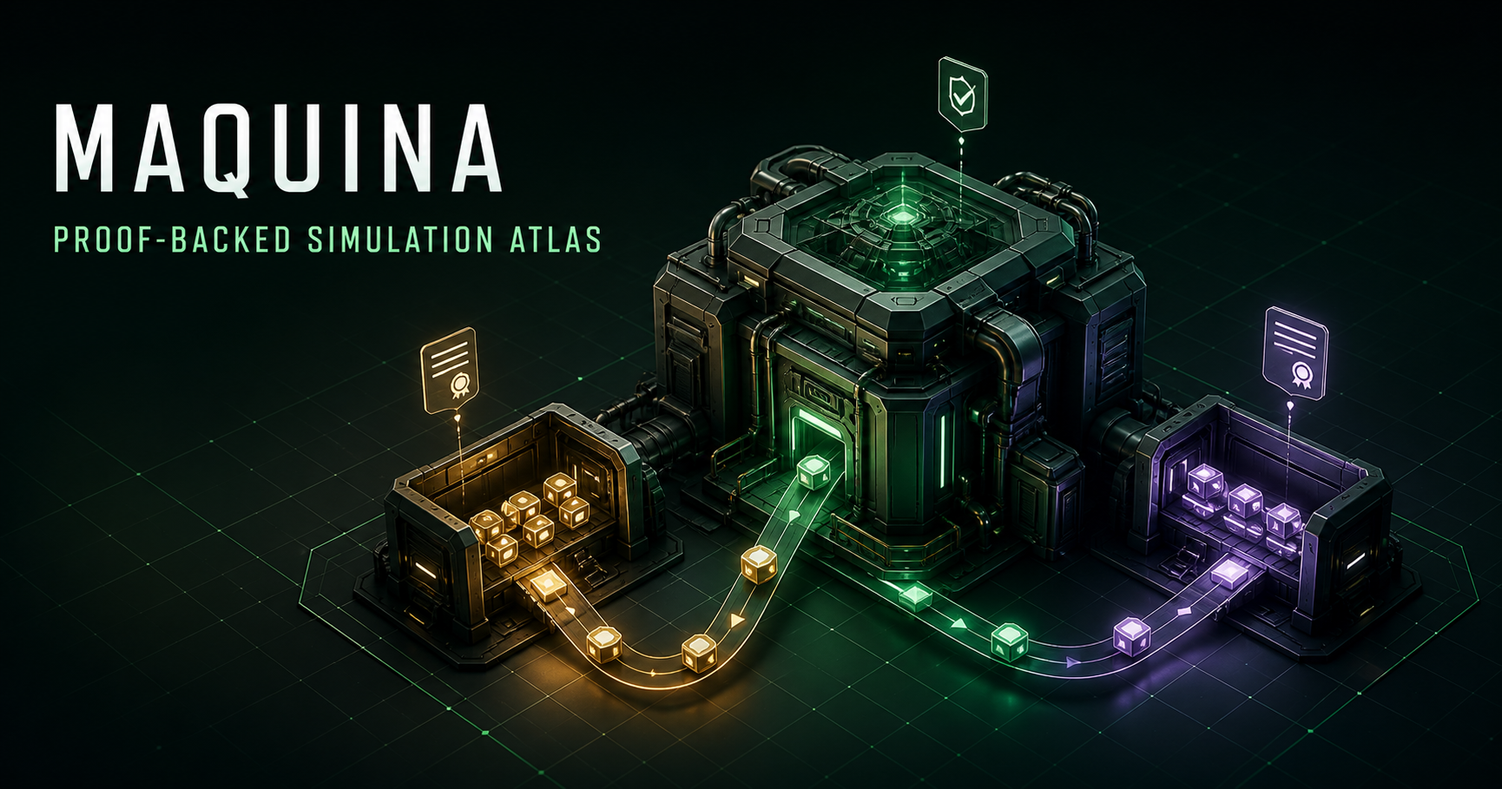
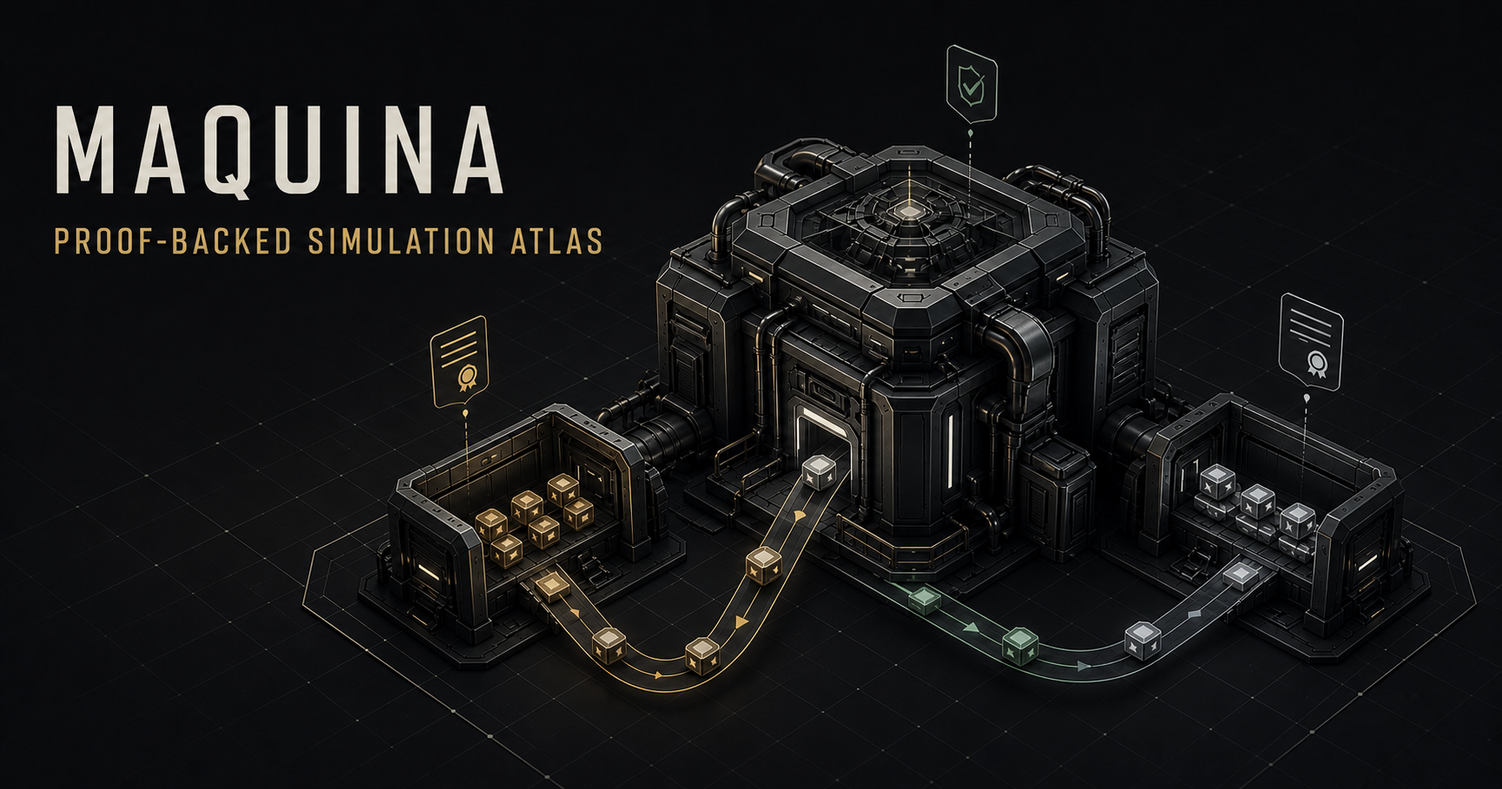
Adopt Axionomy ledger theme

diff --git a/visualizer/src/style.css b/visualizer/src/style.css
@@ -1,14 +1,31 @@
+/* Axionomy-compatible Ledger theme: ink surfaces, bone chrome, brass for
+   value, steel for structure, and restrained semantic status colors. */
 :root {
-  color: #e7f1ec;
-  background: #07110f;
+  color-scheme: dark;
+  color: var(--text);
+  background: var(--bg);
   font-family: Inter, ui-sans-serif, system-ui, -apple-system, BlinkMacSystemFont, "Segoe UI", sans-serif;
   font-synthesis: none;
   text-rendering: optimizeLegibility;
-  --accent: #f4b860;
-  --world-background: #07110f;
-  --line: rgba(188, 224, 208, 0.13);
-  --muted: #86a298;
-  --panel: rgba(13, 29, 24, 0.92);
+  --bg: #101012;
+  --surface: #161618;
+  --surface-2: #1b1b1e;
+  --surface-3: #202023;
+  --line: #2b2a2d;
+  --line-strong: #3e3c38;
+  --muted: #918c82;
+  --text: #eae6dc;
+  --accent: #e8e3d8;
+  --accent-contrast: #131315;
+  --brass: #c2a15c;
+  --credit: #74a184;
+  --debit: #b5584f;
+  --hold: #bd8443;
+  --steel: #7e8a95;
+  --world-background: #101012;
+  --panel: #161618;
+  --serif: "Iowan Old Style", "Palatino Linotype", Palatino, Georgia, ui-serif, serif;
+  --mono: "SFMono-Regular", Consolas, "Liberation Mono", ui-monospace, monospace;
 }
 
 * { box-sizing: border-box; }
@@ -17,12 +34,14 @@ html, body, #app { margin: 0; min-width: 320px; min-height: 100%; height: 100%; 
 
 body {
   background:
-    radial-gradient(circle at 50% -20%, rgba(91, 194, 158, 0.16), transparent 42%),
-    #07110f;
+    radial-gradient(circle at 50% 38%, #1c1c20 0, transparent 58%),
+    var(--bg);
 }
 
 button, a { font: inherit; }
 button { color: inherit; }
+:where(button, a):focus-visible { outline: 2px solid var(--accent); outline-offset: 2px; }
+* { scrollbar-color: var(--line-strong) transparent; scrollbar-width: thin; }
 
 .app-shell {
   display: grid;
@@ -35,121 +54,125 @@ button { color: inherit; }
   align-items: center;
   gap: 22px;
   padding: 0 22px;
-  border-bottom: 1px solid var(--line);
-  background: rgba(5, 14, 11, 0.92);
-  backdrop-filter: blur(18px);
+  border-bottom: 3px double var(--line-strong);
+  background: var(--bg);
   z-index: 10;
 }
 
 .brand { display: flex; align-items: center; gap: 12px; color: inherit; text-decoration: none; }
-.brand > span:last-child { display: flex; flex-direction: column; gap: 1px; }
-.brand b { font-size: 13px; letter-spacing: 0.24em; }
-.brand small { color: var(--muted); font-size: 10px; letter-spacing: 0.05em; }
-.brand-mark { position: relative; display: block; width: 33px; height: 33px; border: 1px solid rgba(244, 184, 96, 0.4); border-radius: 50%; }
-.brand-mark i { position: absolute; display: block; width: 7px; height: 7px; border-radius: 50%; background: var(--accent); box-shadow: 0 0 14px rgba(244, 184, 96, 0.62); }
-.brand-mark i:nth-child(1) { left: 6px; top: 12px; }
+.brand > span:last-child { display: flex; flex-direction: column; gap: 2px; }
+.brand b { color: var(--accent); font: 500 13px var(--mono); letter-spacing: .18em; }
+.brand small { color: var(--muted); font: 8px var(--mono); letter-spacing: .08em; text-transform: uppercase; }
+.brand-mark { position: relative; display: block; width: 32px; height: 32px; border: 1px solid var(--line-strong); }
+.brand-mark::before, .brand-mark::after { content: ""; position: absolute; background: var(--line); }
+.brand-mark::before { left: 7px; right: 7px; top: 15px; height: 1px; transform: rotate(-28deg); }
+.brand-mark::after { left: 15px; top: 7px; bottom: 7px; width: 1px; transform: rotate(24deg); }
+.brand-mark i { position: absolute; z-index: 1; display: block; width: 5px; height: 5px; background: var(--accent); }
+.brand-mark i:nth-child(1) { left: 5px; top: 13px; }
 .brand-mark i:nth-child(2) { left: 18px; top: 6px; }
-.brand-mark i:nth-child(3) { left: 19px; top: 20px; }
+.brand-mark i:nth-child(3) { left: 19px; top: 21px; }
 
-.proof-chip { margin-left: auto; display: flex; align-items: center; gap: 8px; padding: 7px 11px; border: 1px solid rgba(99, 210, 171, 0.24); border-radius: 999px; color: #a8dfca; background: rgba(80, 177, 143, 0.08); font-size: 11px; letter-spacing: 0.05em; text-transform: uppercase; }
-.proof-chip span { width: 6px; height: 6px; border-radius: 50%; background: #63d2ab; box-shadow: 0 0 10px #63d2ab; }
-.source-link { color: var(--muted); text-decoration: none; font-size: 12px; }
-.source-link:hover { color: #fff; }
+.proof-chip { margin-left: auto; display: flex; align-items: center; gap: 8px; min-height: 30px; padding: 0 10px; border: 1px solid color-mix(in srgb, var(--credit) 55%, var(--line)); color: var(--credit); background: color-mix(in srgb, var(--credit) 6%, var(--surface)); font: 8px var(--mono); letter-spacing: .1em; text-transform: uppercase; }
+.proof-chip span { width: 6px; height: 6px; background: currentColor; }
+.source-link { color: var(--muted); text-decoration: none; font: 9px var(--mono); text-transform: uppercase; }
+.source-link:hover { color: var(--accent); }
 
 .workspace { display: grid; grid-template-columns: 262px minmax(0, 1fr) 328px; min-height: 0; }
-.panel { min-height: 0; background: var(--panel); backdrop-filter: blur(16px); }
+.panel { min-height: 0; background: var(--panel); }
 .catalog-panel { display: flex; flex-direction: column; border-right: 1px solid var(--line); }
 .inspector-panel { display: flex; flex-direction: column; border-left: 1px solid var(--line); }
-.panel-heading { height: 52px; flex: 0 0 auto; display: flex; align-items: center; justify-content: space-between; padding: 0 16px; border-bottom: 1px solid var(--line); }
-.panel-heading span { font-size: 11px; font-weight: 700; letter-spacing: 0.11em; text-transform: uppercase; }
-.panel-heading small { color: var(--muted); font-size: 10px; }
+.panel-heading { height: 52px; flex: 0 0 auto; display: flex; align-items: center; justify-content: space-between; padding: 0 15px; border-bottom: 1px solid var(--line); }
+.panel-heading span { color: var(--muted); font: 500 8px var(--mono); letter-spacing: .12em; text-transform: uppercase; }
+.panel-heading small { color: var(--brass); font: 9px var(--mono); text-transform: uppercase; }
 
-.catalog-list { flex: 1; overflow: auto; padding: 9px; }
-.catalog-entry { display: grid; grid-template-columns: 31px 1fr; width: 100%; padding: 13px 10px; border: 1px solid transparent; border-radius: 9px; background: transparent; text-align: left; cursor: pointer; transition: 160ms ease; }
-.catalog-entry:hover { background: rgba(255, 255, 255, 0.035); }
-.catalog-entry.is-selected { border-color: rgba(244, 184, 96, 0.27); background: linear-gradient(110deg, rgba(244, 184, 96, 0.11), rgba(244, 184, 96, 0.025)); }
-.catalog-index { color: #526e64; font: 10px ui-monospace, monospace; padding-top: 2px; }
+.catalog-list { flex: 1; overflow: auto; padding: 8px 0; }
+.catalog-entry { display: grid; grid-template-columns: 31px 1fr; width: 100%; padding: 13px 13px; border: 0; border-left: 2px solid transparent; background: transparent; color: var(--text); text-align: left; cursor: pointer; transition: 150ms ease; }
+.catalog-entry:hover { background: color-mix(in srgb, var(--accent) 3%, var(--surface)); }
+.catalog-entry.is-selected { border-left-color: var(--accent); background: color-mix(in srgb, var(--accent) 6%, var(--surface)); }
+.catalog-index { color: var(--line-strong); font: 9px var(--mono); padding-top: 2px; }
+.catalog-entry.is-selected .catalog-index { color: var(--brass); }
 .catalog-entry > span:last-child { display: flex; flex-direction: column; gap: 5px; }
-.catalog-entry small { color: var(--accent); font-size: 9px; font-weight: 700; letter-spacing: 0.16em; text-transform: uppercase; }
-.catalog-entry b { font-size: 13px; font-weight: 650; }
+.catalog-entry small { color: var(--brass); font: 500 8px var(--mono); letter-spacing: .12em; text-transform: uppercase; }
+.catalog-entry b { font: 500 12px var(--mono); }
 .catalog-entry em { color: var(--muted); font-size: 10px; font-style: normal; line-height: 1.45; }
-.catalog-note { margin: 10px; padding: 14px; border: 1px solid var(--line); border-radius: 9px; background: rgba(0, 0, 0, 0.12); }
+.catalog-note { margin: 10px; padding: 13px; border: 1px solid var(--line); background: var(--surface-2); }
 .catalog-note p { margin: 8px 0 0; color: var(--muted); font-size: 10px; line-height: 1.5; }
-.eyebrow { color: var(--accent); font-size: 9px; font-weight: 750; letter-spacing: 0.18em; text-transform: uppercase; }
+.eyebrow { color: var(--brass); font: 500 8px var(--mono); letter-spacing: .12em; text-transform: uppercase; }
 
 .world-panel { position: relative; display: grid; grid-template-rows: 76px minmax(0, 1fr); min-width: 0; min-height: 0; background: var(--world-background); }
-.world-heading { display: flex; align-items: center; justify-content: space-between; gap: 30px; padding: 0 22px; border-bottom: 1px solid var(--line); z-index: 2; background: rgba(7, 17, 15, 0.74); }
-.world-heading h1 { margin: 4px 0 0; font-family: Georgia, "Times New Roman", serif; font-size: clamp(22px, 2.1vw, 32px); font-weight: 400; letter-spacing: -0.025em; }
+.world-heading { display: flex; align-items: center; justify-content: space-between; gap: 30px; padding: 0 22px; border-bottom: 1px solid var(--line); z-index: 2; background: var(--surface); }
+.world-heading h1 { margin: 5px 0 0; font: 400 clamp(22px, 2.1vw, 32px)/1.05 var(--serif); letter-spacing: 0; }
 .world-heading p { max-width: 460px; margin: 0; color: var(--muted); font-size: 11px; line-height: 1.55; text-align: right; }
 .world { position: relative; min-height: 0; overflow: hidden; }
 .world-canvas, .world-labels { position: absolute; inset: 0; width: 100%; height: 100%; }
 .world-labels { pointer-events: auto; overflow: hidden; }
-.world-help { position: absolute; left: 16px; bottom: 14px; z-index: 3; padding: 7px 9px; border: 1px solid var(--line); border-radius: 6px; color: #7c9a8e; background: rgba(5, 14, 11, 0.7); font-size: 9px; letter-spacing: 0.05em; pointer-events: none; }
-.loading-state, .fatal-error { position: absolute; inset: 0; display: grid; place-content: center; justify-items: center; z-index: 5; background: #07110f; }
-.loading-state span { width: 30px; height: 30px; border: 2px solid rgba(255,255,255,.1); border-top-color: var(--accent); border-radius: 50%; animation: spin 1s linear infinite; }
-.loading-state p, .fatal-error p { color: var(--muted); font-size: 11px; }
+.world-help { position: absolute; left: 16px; bottom: 14px; z-index: 3; padding: 6px 8px; border: 1px solid var(--line); color: var(--muted); background: color-mix(in srgb, var(--surface) 90%, transparent); font: 8px var(--mono); letter-spacing: .05em; text-transform: uppercase; pointer-events: none; }
+.loading-state, .fatal-error { position: absolute; inset: 0; display: grid; place-content: center; justify-items: center; z-index: 5; background: var(--bg); }
+.loading-state span { width: 30px; height: 30px; border: 2px solid var(--line); border-top-color: var(--accent); border-radius: 50%; animation: spin 1s linear infinite; }
+.loading-state p, .fatal-error p { color: var(--muted); font: 9px var(--mono); text-transform: uppercase; }
 @keyframes spin { to { transform: rotate(360deg); } }
 
-.node-label { display: flex; flex-direction: column; align-items: center; min-width: 82px; padding: 5px 7px; border: 1px solid rgba(192, 224, 210, 0.13); border-radius: 5px; background: rgba(5, 14, 11, 0.78); box-shadow: 0 5px 15px rgba(0,0,0,.18); color: #e8f1ed; text-align: center; pointer-events: none; transform: translateY(-2px); }
-.node-label strong { font-size: 9px; font-weight: 680; letter-spacing: 0.02em; white-space: nowrap; }
-.node-label small { margin-top: 2px; color: #8fa79e; font-size: 8px; white-space: nowrap; }
-.node-label.is-highlighted { border-color: rgba(244, 184, 96, 0.62); box-shadow: 0 0 18px rgba(244, 184, 96, 0.18); }
+.node-label { display: flex; flex-direction: column; align-items: center; min-width: 82px; padding: 5px 7px; border: 1px solid var(--line); background: color-mix(in srgb, var(--surface) 92%, transparent); box-shadow: 0 7px 18px #0009; color: var(--text); text-align: center; pointer-events: none; transform: translateY(-2px); }
+.node-label strong { font: 500 8px var(--mono); letter-spacing: .02em; text-transform: uppercase; white-space: nowrap; }
+.node-label small { margin-top: 3px; color: var(--muted); font: 7px var(--mono); text-transform: uppercase; white-space: nowrap; }
+.node-label.is-highlighted { border-color: var(--accent); background: color-mix(in srgb, var(--accent) 5%, var(--surface)); }
 .node-resource { min-width: 56px; padding: 3px 5px; }
-.node-queue { background: rgba(10, 24, 20, 0.9); }
+.node-queue { background: color-mix(in srgb, var(--surface-2) 94%, transparent); }
 
 .inspector { flex: 1; overflow: auto; padding: 12px; }
-.receipt-card { padding: 14px; border: 1px solid var(--line); border-radius: 9px; background: rgba(5, 13, 11, 0.52); }
-.receipt-card.status-accepted { border-color: rgba(99, 210, 171, 0.25); }
-.receipt-card.status-rejected { border-color: rgba(239, 116, 99, 0.37); background: rgba(77, 24, 20, 0.18); }
-.receipt-kicker { display: flex; justify-content: space-between; color: var(--muted); font-size: 9px; text-transform: uppercase; letter-spacing: 0.12em; }
-.receipt-kicker b { color: #9edfc6; }
-.status-rejected .receipt-kicker b { color: #ff9e91; }
-.receipt-card h2 { margin: 10px 0 8px; font-family: Georgia, "Times New Roman", serif; font-size: 22px; font-weight: 400; }
-.semantic-proof { display: inline-flex; margin-bottom: 11px; padding: 4px 7px; border-radius: 4px; background: rgba(99, 210, 171, 0.08); color: #8ed2b8; font: 9px ui-monospace, monospace; }
-.status-rejected .semantic-proof { background: rgba(239, 116, 99, 0.08); color: #ef8d80; }
-.effect-row { display: grid; grid-template-columns: 7px 1fr; gap: 8px; align-items: start; padding: 7px 0; border-top: 1px solid rgba(188, 224, 208, 0.07); color: #bad0c7; font-size: 10px; line-height: 1.45; }
-.effect-row i { width: 5px; height: 5px; margin-top: 5px; border-radius: 50%; background: var(--accent); box-shadow: 0 0 7px rgba(244,184,96,.55); }
-.issue { margin: 6px 0 9px; padding: 9px; border-left: 2px solid #ef7463; background: rgba(239, 116, 99, 0.06); }
+.receipt-card { padding: 14px; border: 1px solid var(--line); background: var(--surface-2); }
+.receipt-card.status-accepted { border-color: color-mix(in srgb, var(--credit) 55%, var(--line)); }
+.receipt-card.status-rejected { border-color: color-mix(in srgb, var(--debit) 65%, var(--line)); background: color-mix(in srgb, var(--debit) 7%, var(--surface-2)); }
+.receipt-kicker { display: flex; justify-content: space-between; color: var(--muted); font: 8px var(--mono); text-transform: uppercase; letter-spacing: .1em; }
+.receipt-kicker b { color: var(--credit); font-weight: 500; }
+.status-rejected .receipt-kicker b { color: var(--debit); }
+.receipt-card h2 { margin: 10px 0 8px; font: 400 22px var(--serif); }
+.semantic-proof { display: inline-flex; margin-bottom: 11px; padding: 4px 7px; border: 1px solid color-mix(in srgb, var(--credit) 30%, var(--line)); background: color-mix(in srgb, var(--credit) 5%, var(--surface)); color: var(--credit); font: 8px var(--mono); }
+.status-rejected .semantic-proof { border-color: color-mix(in srgb, var(--debit) 30%, var(--line)); background: color-mix(in srgb, var(--debit) 5%, var(--surface)); color: var(--debit); }
+.effect-row { display: grid; grid-template-columns: 7px 1fr; gap: 8px; align-items: start; padding: 7px 0; border-top: 1px solid var(--line); color: var(--text); font-size: 10px; line-height: 1.45; }
+.effect-row i { width: 5px; height: 5px; margin-top: 5px; background: var(--brass); }
+.issue { margin: 6px 0 9px; padding: 9px; border-left: 2px solid var(--debit); background: color-mix(in srgb, var(--debit) 6%, var(--surface)); }
 .issue b, .issue small { display: block; }
-.issue b { color: #ff9e91; font-size: 10px; text-transform: capitalize; }
-.issue small { margin-top: 5px; color: #a9837d; font: 8px/1.4 ui-monospace, monospace; overflow-wrap: anywhere; }
+.issue b { color: var(--debit); font: 500 9px var(--mono); text-transform: uppercase; }
+.issue small { margin-top: 5px; color: var(--muted); font: 8px/1.4 var(--mono); overflow-wrap: anywhere; }
 .empty-copy { margin: 6px 0; color: var(--muted); font-size: 10px; line-height: 1.5; }
-.selected-object { display: flex; justify-content: space-between; gap: 12px; margin: 10px 0; padding: 9px 10px; border: 1px solid rgba(244,184,96,.18); border-radius: 6px; background: rgba(244,184,96,.05); font-size: 9px; }
-.selected-object span { color: var(--muted); }
-.selected-object b { overflow: hidden; color: var(--accent); text-overflow: ellipsis; }
+.selected-object { display: flex; justify-content: space-between; gap: 12px; margin: 10px 0; padding: 9px 10px; border: 1px solid var(--line-strong); background: var(--surface-2); font: 8px var(--mono); }
+.selected-object span { color: var(--muted); text-transform: uppercase; }
+.selected-object b { overflow: hidden; color: var(--brass); text-overflow: ellipsis; }
 .data-section { margin-top: 17px; }
-.section-title { display: flex; justify-content: space-between; margin-bottom: 7px; color: #8ea79d; font-size: 9px; font-weight: 700; letter-spacing: .1em; text-transform: uppercase; }
-.section-title b { color: #617b71; }
-.holding-row { display: grid; grid-template-columns: 8px minmax(0, 1fr) auto; gap: 9px; align-items: center; padding: 7px 4px; border-bottom: 1px solid rgba(188,224,208,.07); }
-.holding-row > i { width: 7px; height: 7px; border-radius: 2px; background: var(--resource); box-shadow: 0 0 8px color-mix(in srgb, var(--resource), transparent 45%); }
+.section-title { display: flex; justify-content: space-between; margin-bottom: 7px; color: var(--muted); font: 500 8px var(--mono); letter-spacing: .1em; text-transform: uppercase; }
+.section-title b { color: var(--brass); font-weight: 500; }
+.holding-row { display: grid; grid-template-columns: 8px minmax(0, 1fr) auto; gap: 9px; align-items: center; padding: 7px 4px; border-bottom: 1px solid var(--line); }
+.holding-row > i { width: 7px; height: 7px; background: var(--resource); }
 .holding-row span { display: flex; flex-direction: column; gap: 2px; min-width: 0; }
-.holding-row b { font-size: 10px; font-weight: 600; }
+.holding-row b { font: 500 9px var(--mono); text-transform: uppercase; }
 .holding-row small { overflow: hidden; color: var(--muted); font-size: 8px; text-overflow: ellipsis; white-space: nowrap; }
-.holding-row strong { font: 10px ui-monospace, monospace; }
-.queue-row { display: grid; grid-template-columns: minmax(0, 1fr) auto; gap: 4px 8px; padding: 7px 4px; border-bottom: 1px solid rgba(188,224,208,.07); }
-.queue-row span { font-size: 9px; text-transform: uppercase; letter-spacing: .08em; }
-.queue-row b { font: 9px ui-monospace, monospace; }
+.holding-row strong { color: var(--brass); font: 10px var(--mono); }
+.queue-row { display: grid; grid-template-columns: minmax(0, 1fr) auto; gap: 4px 8px; padding: 7px 4px; border-bottom: 1px solid var(--line); }
+.queue-row span { font: 500 8px var(--mono); text-transform: uppercase; letter-spacing: .08em; }
+.queue-row b { color: var(--brass); font: 9px var(--mono); }
 .queue-row small { grid-column: 1/-1; color: var(--muted); font-size: 8px; }
-.stage-input { color: #e6a15a; }.stage-processing { color: #62cbb0; }.stage-output { color: #c081e8; }
+.stage-input { color: var(--hold); }.stage-processing { color: var(--steel); }.stage-output { color: var(--credit); }
 
-.timeline-panel { display: grid; grid-template-columns: 126px minmax(0, 1fr); align-items: center; gap: 12px; padding: 0 20px; border-top: 1px solid var(--line); background: rgba(5, 14, 11, 0.96); z-index: 10; }
-.transport { display: flex; align-items: center; gap: 7px; }
-.transport button { display: grid; place-items: center; border: 1px solid var(--line); background: rgba(255,255,255,.025); cursor: pointer; }
+.timeline-panel { display: grid; grid-template-columns: 126px minmax(0, 1fr); align-items: center; gap: 12px; padding: 0 20px; border-top: 3px double var(--line-strong); background: var(--bg); z-index: 10; }
+.transport { display: flex; align-items: center; gap: 5px; }
+.transport button { display: grid; place-items: center; border: 1px solid var(--line); background: var(--surface-2); cursor: pointer; }
+.transport button:hover:not(:disabled) { border-color: var(--line-strong); }
 .transport button:disabled { opacity: .25; cursor: default; }
-.transport-button { width: 31px; height: 31px; border-radius: 50%; }
-.play-button { width: 40px; height: 40px; border-color: rgba(244,184,96,.4) !important; border-radius: 50%; color: #17130c; background: var(--accent) !important; font-size: 12px; }
+.transport-button { width: 31px; height: 31px; }
+.play-button { width: 40px; height: 40px; border-color: var(--accent) !important; color: var(--accent-contrast); background: var(--accent) !important; font-size: 12px; }
 .timeline { display: flex; align-items: flex-start; min-width: 0; padding: 14px 4px 4px; overflow-x: auto; }
 .timeline-step { position: relative; flex: 1 0 92px; min-width: 92px; padding: 20px 4px 0; border: 0; background: transparent; color: var(--muted); text-align: center; cursor: pointer; }
-.timeline-step::before { content: ""; position: absolute; top: 7px; left: 0; right: 0; height: 1px; background: #29443a; }
+.timeline-step::before { content: ""; position: absolute; top: 7px; left: 0; right: 0; height: 1px; background: var(--line-strong); }
 .timeline-step:first-child::before { left: 50%; }
 .timeline-step:last-child::before { right: 50%; }
-.timeline-step i { position: absolute; top: 3px; left: 50%; width: 9px; height: 9px; margin-left: -4px; border: 2px solid #29443a; border-radius: 50%; background: #07110f; z-index: 1; }
+.timeline-step i { position: absolute; top: 3px; left: 50%; width: 9px; height: 9px; margin-left: -4px; border: 2px solid var(--line-strong); background: var(--bg); z-index: 1; }
 .timeline-step span { display: none; }
-.timeline-step small { display: block; overflow: hidden; font-size: 8px; text-overflow: ellipsis; white-space: nowrap; }
-.timeline-step.status-accepted i { border-color: #4f9f84; }
-.timeline-step.status-rejected i { border-color: #ef7463; }
-.timeline-step.is-selected { color: #fff; }
-.timeline-step.is-selected i { border-color: var(--accent); background: var(--accent); box-shadow: 0 0 12px rgba(244,184,96,.65); }
+.timeline-step small { display: block; overflow: hidden; font: 8px var(--mono); text-overflow: ellipsis; white-space: nowrap; }
+.timeline-step.status-accepted i { border-color: var(--credit); }
+.timeline-step.status-rejected i { border-color: var(--debit); }
+.timeline-step.is-selected { color: var(--accent); }
+.timeline-step.is-selected i { border-color: var(--accent); background: var(--accent); }
 
 @media (max-width: 1050px) {
   .workspace { grid-template-columns: 210px minmax(0, 1fr) 285px; }
@@ -162,7 +185,8 @@ button { color: inherit; }
   .workspace { grid-template-columns: 1fr; grid-template-rows: auto 62vh auto; }
   .catalog-panel { border: 0; border-bottom: 1px solid var(--line); }
   .catalog-list { display: flex; padding: 7px; overflow-x: auto; }
-  .catalog-entry { flex: 0 0 230px; }
+  .catalog-entry { flex: 0 0 230px; border: 1px solid transparent; border-left: 1px solid transparent; }
+  .catalog-entry.is-selected { border-color: var(--line-strong); border-left-color: var(--accent); }
   .catalog-note { display: none; }
   .panel-heading { height: 42px; }
   .world-panel { grid-row: 2; grid-template-rows: 70px minmax(0, 1fr); }

diff --git a/visualizer/src/three-renderer.ts b/visualizer/src/three-renderer.ts
@@ -18,8 +18,8 @@ function vector(value: { x: number; y: number; z: number }): THREE.Vector3 {
 function material(color: string, opacity = 1): THREE.MeshStandardMaterial {
   return new THREE.MeshStandardMaterial({
     color,
-    roughness: 0.48,
-    metalness: 0.2,
+    roughness: 0.62,
+    metalness: 0.14,
     transparent: opacity < 1,
     opacity,
   });
@@ -82,7 +82,7 @@ export class ThreeSceneRenderer {
     this.renderer.shadowMap.type = THREE.PCFSoftShadowMap;
     this.renderer.outputColorSpace = THREE.SRGBColorSpace;
     this.renderer.toneMapping = THREE.ACESFilmicToneMapping;
-    this.renderer.toneMappingExposure = 1.08;
+    this.renderer.toneMappingExposure = 0.96;
     this.renderer.domElement.className = "world-canvas";
     this.labels.domElement.className = "world-labels";
     this.container.append(this.renderer.domElement, this.labels.domElement);
@@ -103,8 +103,8 @@ export class ThreeSceneRenderer {
   }
 
   private addEnvironment(): void {
-    const hemisphere = new THREE.HemisphereLight(0xc7fff0, 0x14221d, 2.5);
-    const key = new THREE.DirectionalLight(0xfff0d0, 3.4);
+    const hemisphere = new THREE.HemisphereLight(0xeae6dc, 0x161618, 2.2);
+    const key = new THREE.DirectionalLight(0xfff2db, 3.1);
     key.position.set(8, 15, 10);
     key.castShadow = true;
     key.shadow.mapSize.set(2048, 2048);
@@ -114,19 +114,19 @@ export class ThreeSceneRenderer {
     key.shadow.camera.bottom = -20;
     this.scene.add(hemisphere, key);
 
-    const floorMaterial = new THREE.MeshStandardMaterial({ color: 0x0a1713, roughness: 0.93 });
+    const floorMaterial = new THREE.MeshStandardMaterial({ color: 0x151517, roughness: 0.96 });
     const floor = new THREE.Mesh(new THREE.PlaneGeometry(42, 30), floorMaterial);
     floor.rotation.x = -Math.PI / 2;
     floor.position.y = -0.22;
     floor.receiveShadow = true;
     this.scene.add(floor);
 
-    const grid = new THREE.GridHelper(42, 42, 0x315b4e, 0x18352d);
+    const grid = new THREE.GridHelper(42, 42, 0x3e3c38, 0x252527);
     grid.position.y = -0.205;
     const gridMaterials = Array.isArray(grid.material) ? grid.material : [grid.material];
     for (const item of gridMaterials) {
       item.transparent = true;
-      item.opacity = 0.36;
+      item.opacity = 0.42;
     }
     this.scene.add(grid);
   }

diff --git a/visualizer/src/scene.ts b/visualizer/src/scene.ts
@@ -46,9 +46,9 @@ export interface SceneDocument {
 }
 
 const STAGE_COLORS: Record<string, string> = {
-  input: "#e6a15a",
-  processing: "#62cbb0",
-  output: "#c081e8",
+  input: "#bd8443",
+  processing: "#7e8a95",
+  output: "#74a184",
 };
 
 function plus(position: Vec3, x: number, y: number, z: number): Vec3 {
@@ -212,7 +212,7 @@ export function projectScene(
       detail: custody.contents
         .map((item) => `${item.quantity} ${resources.get(item.resource)?.label ?? item.resource}`)
         .join(" · "),
-      color: custody.active ? "#ffcf70" : "#6bd6b4",
+      color: custody.active ? "#c2a15c" : "#7e8a95",
       position: custodyPosition,
       highlighted: highlights.has(custody.id),
     });
@@ -220,7 +220,7 @@ export function projectScene(
       id: `${custody.id}:source`,
       source: custody.source,
       destination: custody.id,
-      color: custody.active ? "#ffcf70" : "#6bd6b4",
+      color: custody.active ? "#c2a15c" : "#7e8a95",
       active: custody.active,
       dashed: true,
     });
@@ -228,7 +228,7 @@ export function projectScene(
       id: `${custody.id}:destination`,
       source: custody.id,
       destination: custody.destination,
-      color: custody.active ? "#ffcf70" : "#6bd6b4",
+      color: custody.active ? "#c2a15c" : "#7e8a95",
       active: custody.active,
       dashed: true,
     });

diff --git a/visualizer/index.html b/visualizer/index.html
@@ -3,7 +3,7 @@
   <head>
     <meta charset="UTF-8" />
     <meta name="viewport" content="width=device-width, initial-scale=1.0" />
-    <meta name="theme-color" content="#07110f" />
+    <meta name="theme-color" content="#101012" />
     <meta
       name="description"
       content="Explore proof-backed Maquina simulations as interactive three-dimensional worlds."
